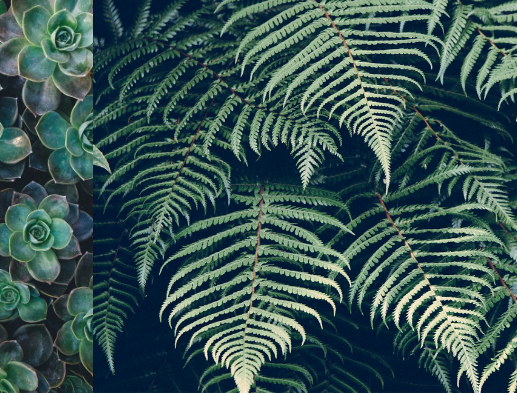
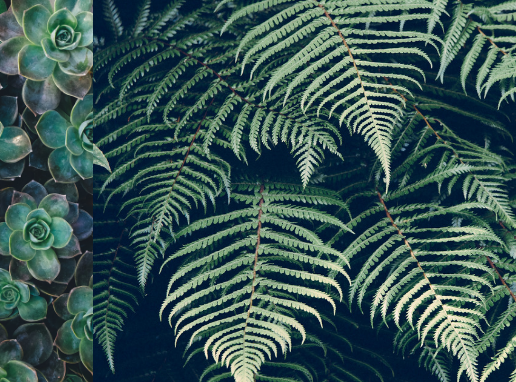
css updates

diff --git a/css/twenty.css b/css/twenty.css
@@ -1,7 +1,19 @@
 body {
-  background-color: rgb(235, 242, 238);
+  /* background-color: rgb(235, 242, 238); */
   /* background-color: rgb(210, 218, 212); */
   font-family: "Text Me One", sans-serif;
+
+  background: rgb(235, 242, 238); /* fallback for old browsers */
+  background: -webkit-linear-gradient(
+    to right,
+    #71b280,
+    #134e5e
+  ); /* Chrome 10-25, Safari 5.1-6 */
+  background: linear-gradient(
+    to right,
+    #71b280,
+    #134e5e
+  ); /* W3C, IE 10+/ Edge, Firefox 16+, Chrome 26+, Opera 12+, Safari 7+ */
 }
 
 .heading {
@@ -18,7 +30,8 @@ body {
 
 .green img {
   filter: opacity(80%);
-  box-shadow: 20px 15px 10px -3px grey;
+  box-shadow: 8px 8px 10px rgb(94, 114, 103);
+  max-width: 100%;
 }
 
 /* .green:hover {
